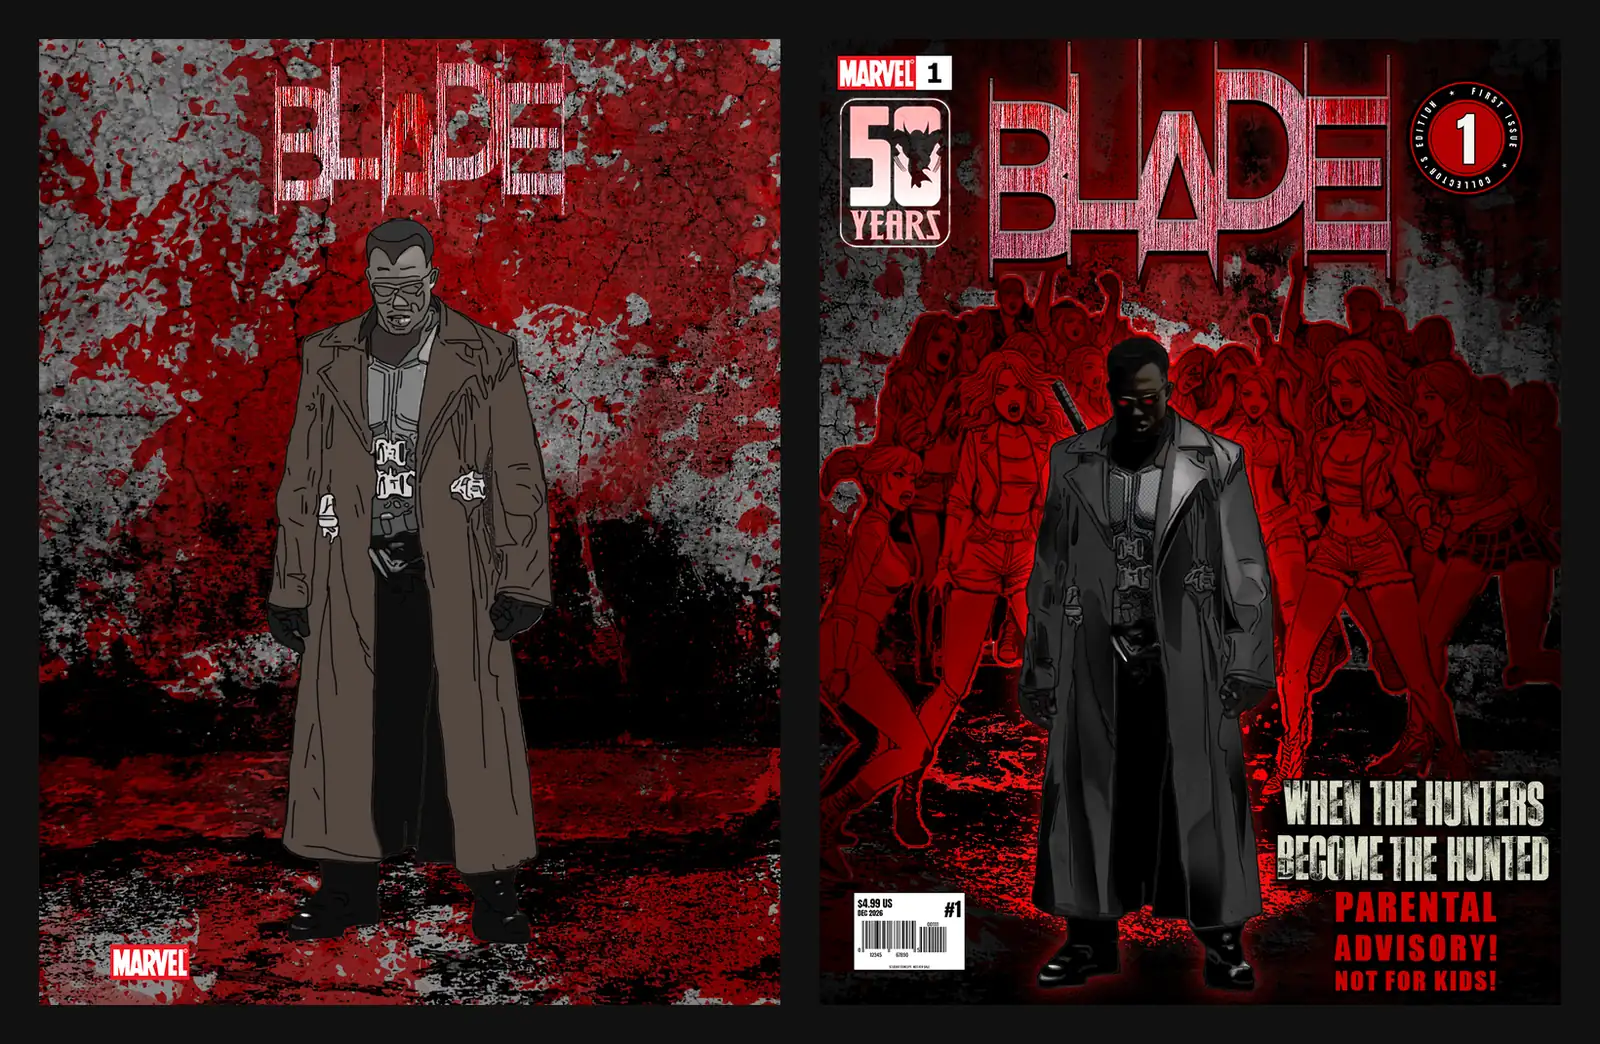
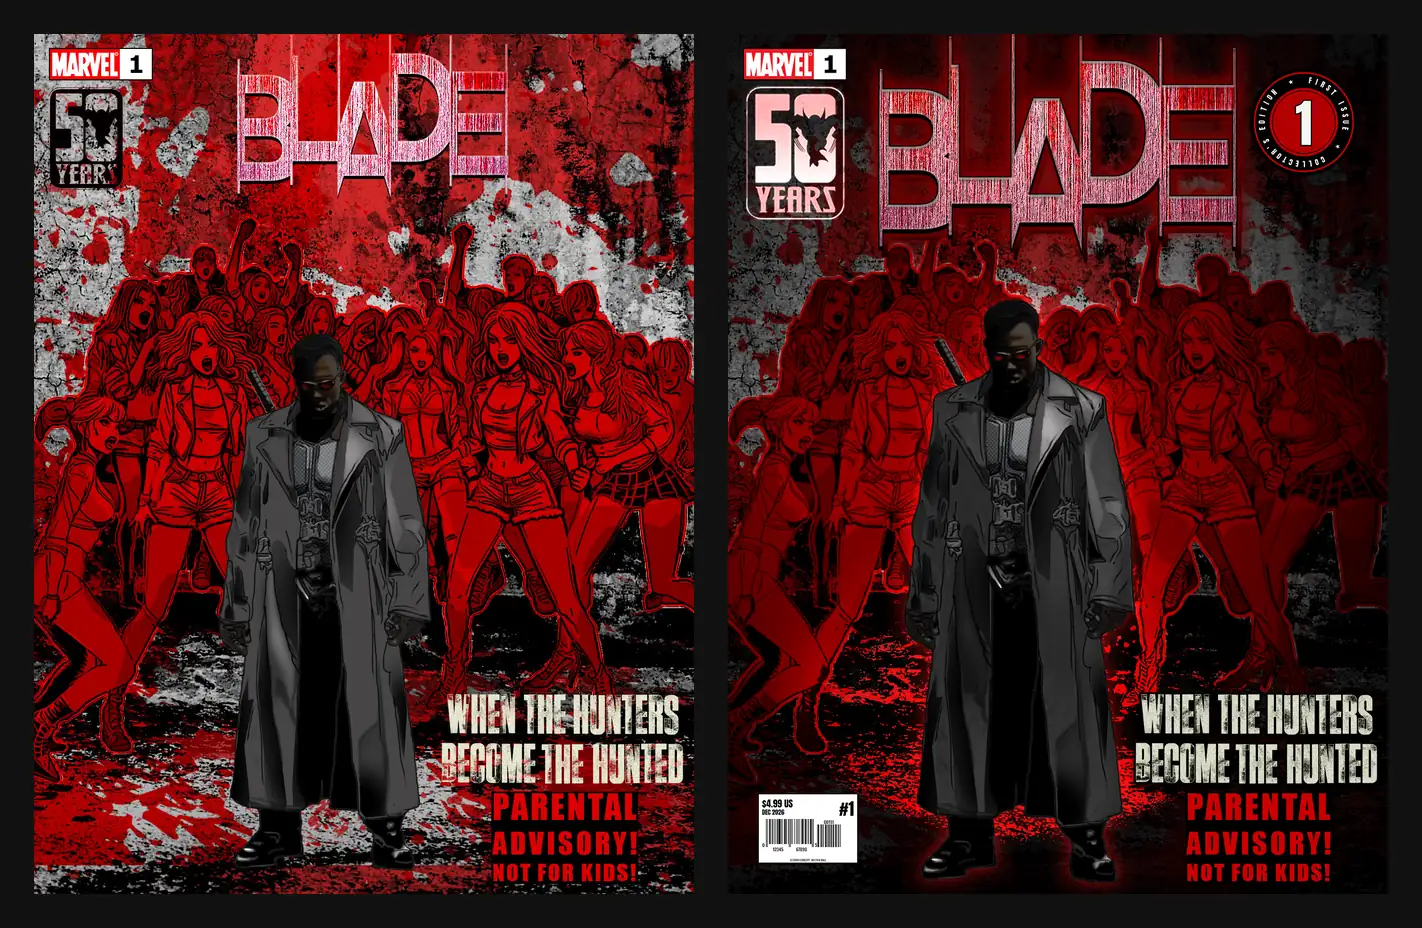
Blade gallery: new shelf photo first, turned-in 2023 cover in before/after (#24)
Claude-Session: https://claude.ai/code/session_01LsnHnQnwYzfcbdXuQquYwd

diff --git a/script.js b/script.js
@@ -193,7 +193,7 @@ const moreProjects = [
     image: "images/blade/cover-magazine-mockup.webp",
     imageAlt: "The finished Blade comic cover printed on a comic book lying at an angle on a white surface",
     details: {
-      overview: "Blade is a comic book cover I painted for Project 02 in my Electronic Imaging class at Valencia College in 2023. The assignment was to design a cover based on a movie and build it in Photoshop with custom brushes, a pattern, masks, adjustment layers and organized layer groups. I chose the blood rave that opens BLADE: Blade in his leather coat at the center, surrounded by fanged ravers dripping blood, under the caption \"When the hunters become the hunted.\" In 2026 I reworked the cover for my portfolio and placed it on a printed comic, a flat cover and a comic shop shelf.",
+      overview: "Blade is a comic book cover I painted for Project 02 in my Electronic Imaging class at Valencia College in 2023. The assignment was to design a cover based on a movie and build it in Photoshop with custom brushes, a pattern, masks, adjustment layers and organized layer groups. I chose the blood rave that opens BLADE: Blade in his leather coat at the center, surrounded by fanged ravers dripping blood, under the caption \"When the hunters become the hunted.\" In 2026 I reworked the cover for my portfolio and placed it on a printed comic, a flat cover and a comic shelf.",
       role: "Illustrator & Designer – I researched the film, wrote the project brief, sketched three rough layouts, painted the cover in Photoshop, made my own brushes and pattern, and set the title and cover type. In 2026 I reworked the cover and presented it in mockups.",
       tools: ["Adobe Photoshop", "Adobe Illustrator"],
       challenge: "The brief asked for a full cover with a title, extra type, a price and logos, painted in color and made in Photoshop, with Illustrator allowed only for outlines. I had to create and use at least 3 custom brushes and 1 pattern, use at least 2 filters, adjustment layers or layer styles, use layer masks, and name and group every layer. The file had to be 8.25 × 10.75 in with an 8 × 10.5 in trim at 150 dpi, worked in RGB and converted to CMYK at the end.",
@@ -210,13 +210,13 @@ const moreProjects = [
         { title: "Wrote the brief", text: "My brief set the concept: Blade in his leather coat at the center, the ravers around him, a gritty and semi-realistic style, no dialogue, and one caption, \"When the hunters become the hunted,\" to show the role reversal." },
         { title: "Sketched three layouts", text: "I drew three rough layouts in pencil: Blade standing among the ravers, Blade crouched with his sword inside a ring of attackers, and a close-up of Blade swinging his sword. The first one became the final cover, because his calm stance against the crowd says the most about the story." },
         { title: "Painted it in Photoshop", text: "I painted the cover on separate, named layers in groups, so every part could be changed without damaging the rest. I made my own blood splatter brushes and a pattern, used layer masks to blend the figures into the background, and finished it with adjustment layers and layer styles." },
-        { title: "Reworked it in 2026", text: "Back in Photoshop, I gave the cover the parts of a real first issue: a new BLADE masthead, glowing red eyes behind his glasses, a Marvel 50 Years corner badge, a First Issue seal, and a price and UPC box." },
-        { title: "Put it in the real world", text: "I placed the finished cover on a printed comic, on a flat cover and on a comic shop shelf with a New This Week tag, to see how it reads in a hand and from across a store." }
+        { title: "Reworked it in 2026", text: "Back in Photoshop, I gave the cover the parts of a real first issue: a new BLADE masthead, glowing red eyes behind his glasses, a redrawn 50 Years badge, a First Issue seal, and a price and UPC box." },
+        { title: "Put it in the real world", text: "I placed the finished cover on a printed comic, on a flat cover and on a shelf next to other Marvel comics, to see how it reads in a hand and next to real covers." }
       ],
       gallery: [
+        { src: "images/blade/shelf-mockup.webp", alt: "The Blade comic on a white shelf in a clear display stand next to other Marvel comics, with more comics on the shelves above and below", caption: "On a shelf next to other Marvel comics.", size: "poster" },
         { src: "images/blade/flat-cover.webp", alt: "The finished 2026 Blade cover laid flat on a dark surface: Blade in a long black leather coat stands in front of a crowd of red vampire ravers, under a pink and red BLADE masthead, with a Marvel 50 Years badge, a First Issue seal, the caption When the Hunters Become the Hunted and a UPC box", caption: "The finished cover." },
-        { src: "images/blade/shelf-mockup.webp", alt: "The Blade cover on the middle shelf of a comic shop wall, between other comics, with a red New This Week tag below it", caption: "On a comic shop shelf." },
-        { src: "images/blade/before-after.webp", alt: "Two versions of the Blade cover side by side: on the left, the 2023 version with Blade in a brown coat on a red and gray spattered wall under a pink BLADE title; on the right, the 2026 version with a black coat, a crowd of red ravers, a new masthead, badges, a caption and a UPC box", caption: "Left: the cover in 2023. Right: the 2026 rework." },
+        { src: "images/blade/before-after.webp", alt: "Two versions of the Blade cover side by side: on the left, the 2023 cover with Blade in a black coat in front of a crowd of red ravers on a spattered wall, under a pink BLADE title; on the right, the 2026 version with a new masthead, red eyes, a redrawn 50 Years badge, a First Issue seal and a UPC box", caption: "Left: the cover in 2023. Right: the 2026 rework." },
         { src: "images/blade/sketches.webp", alt: "Three pencil rough layouts for the cover: Blade standing among female vampire ravers, Blade crouched with a sword inside a ring of attackers, and a close-up of Blade swinging his sword", caption: "My three rough layouts. The first one became the final cover.", size: "small" }
       ],
       outcome: "A class assignment became a cover that looks ready for a comic shop shelf. My instructor, Michael Maguire, graded it with \"Excellent work, Fredy. Portfolio worthy!\" Painting it taught me to work in layers and masks instead of on one flat image, and reworking it later showed me how much the cover type and details make a painting read as a real comic.",
@@ -700,7 +700,7 @@ Object.assign(enToEs, {
 
 Object.assign(enToEs, {
   "Comic book cover painted in Photoshop for my Electronic Imaging class at Valencia College in 2023, inspired by the blood rave scene from the movie BLADE, and reworked in 2026 into a finished, shelf-ready first issue.": "Portada de cómic pintada en Photoshop para mi clase de Electronic Imaging en Valencia College en 2023, inspirada en la escena del blood rave de la película BLADE, y retrabajada en 2026 como un primer número terminado y listo para el estante.",
-  "Blade is a comic book cover I painted for Project 02 in my Electronic Imaging class at Valencia College in 2023. The assignment was to design a cover based on a movie and build it in Photoshop with custom brushes, a pattern, masks, adjustment layers and organized layer groups. I chose the blood rave that opens BLADE: Blade in his leather coat at the center, surrounded by fanged ravers dripping blood, under the caption \"When the hunters become the hunted.\" In 2026 I reworked the cover for my portfolio and placed it on a printed comic, a flat cover and a comic shop shelf.": "Blade es una portada de cómic que pinté para el Proyecto 02 de mi clase de Electronic Imaging en Valencia College en 2023. La tarea era diseñar una portada basada en una película y crearla en Photoshop con pinceles propios, un patrón, máscaras, capas de ajuste y grupos de capas organizados. Elegí el blood rave con el que empieza BLADE: Blade con su abrigo de cuero en el centro, rodeado de ravers con colmillos que gotean sangre, bajo la frase \"When the hunters become the hunted\" (cuando los cazadores se vuelven la presa). En 2026 retrabajé la portada para mi portafolio y la coloqué en un cómic impreso, en una portada plana y en el estante de una tienda de cómics.",
+  "Blade is a comic book cover I painted for Project 02 in my Electronic Imaging class at Valencia College in 2023. The assignment was to design a cover based on a movie and build it in Photoshop with custom brushes, a pattern, masks, adjustment layers and organized layer groups. I chose the blood rave that opens BLADE: Blade in his leather coat at the center, surrounded by fanged ravers dripping blood, under the caption \"When the hunters become the hunted.\" In 2026 I reworked the cover for my portfolio and placed it on a printed comic, a flat cover and a comic shelf.": "Blade es una portada de cómic que pinté para el Proyecto 02 de mi clase de Electronic Imaging en Valencia College en 2023. La tarea era diseñar una portada basada en una película y crearla en Photoshop con pinceles propios, un patrón, máscaras, capas de ajuste y grupos de capas organizados. Elegí el blood rave con el que empieza BLADE: Blade con su abrigo de cuero en el centro, rodeado de ravers con colmillos que gotean sangre, bajo la frase \"When the hunters become the hunted\" (cuando los cazadores se vuelven la presa). En 2026 retrabajé la portada para mi portafolio y la coloqué en un cómic impreso, en una portada plana y en un estante de cómics.",
   "Illustrator & Designer – I researched the film, wrote the project brief, sketched three rough layouts, painted the cover in Photoshop, made my own brushes and pattern, and set the title and cover type. In 2026 I reworked the cover and presented it in mockups.": "Ilustrador y diseñador: investigué la película, escribí el brief del proyecto, dibujé tres bocetos, pinté la portada en Photoshop, creé mis propios pinceles y patrón, y compuse el título y los textos de la portada. En 2026 retrabajé la portada y la presenté en mockups.",
   "The brief asked for a full cover with a title, extra type, a price and logos, painted in color and made in Photoshop, with Illustrator allowed only for outlines. I had to create and use at least 3 custom brushes and 1 pattern, use at least 2 filters, adjustment layers or layer styles, use layer masks, and name and group every layer. The file had to be 8.25 × 10.75 in with an 8 × 10.5 in trim at 150 dpi, worked in RGB and converted to CMYK at the end.": "El brief pedía una portada completa con título, textos adicionales, precio y logos, pintada a color y hecha en Photoshop, con Illustrator permitido solo para los contornos. Tenía que crear y usar al menos 3 pinceles propios y 1 patrón, usar al menos 2 filtros, capas de ajuste o estilos de capa, usar máscaras de capa, y nombrar y agrupar todas las capas. El archivo debía medir 8.25 × 10.75 in con un corte de 8 × 10.5 in a 150 dpi, trabajado en RGB y convertido a CMYK al final.",
   "I kept the scene gritty and semi-realistic, with no dialogue, so the image tells the story. Blade stands still at the center in gray and black while a crowd of red ravers closes in behind him, and a blood-spattered wall fills the background. My custom blood splatter brushes carry the blood across the whole cover, and the palette stays to red, black and gray so the title and caption read clearly.": "Mantuve la escena cruda y semirrealista, sin diálogo, para que la imagen cuente la historia. Blade está quieto en el centro, en gris y negro, mientras una multitud de ravers en rojo se le acerca por detrás y una pared salpicada de sangre llena el fondo. Mis pinceles de salpicaduras de sangre llevan la sangre por toda la portada, y la paleta se queda en rojo, negro y gris para que el título y la frase se lean con claridad.",
@@ -718,11 +718,11 @@ Object.assign(enToEs, {
   "Painted it in Photoshop": "La pinté en Photoshop",
   "I painted the cover on separate, named layers in groups, so every part could be changed without damaging the rest. I made my own blood splatter brushes and a pattern, used layer masks to blend the figures into the background, and finished it with adjustment layers and layer styles.": "Pinté la portada en capas separadas, con nombre y en grupos, para poder cambiar cada parte sin dañar el resto. Creé mis propios pinceles de salpicaduras de sangre y un patrón, usé máscaras de capa para integrar las figuras con el fondo, y la terminé con capas de ajuste y estilos de capa.",
   "Reworked it in 2026": "La retrabajé en 2026",
-  "Back in Photoshop, I gave the cover the parts of a real first issue: a new BLADE masthead, glowing red eyes behind his glasses, a Marvel 50 Years corner badge, a First Issue seal, and a price and UPC box.": "De vuelta en Photoshop, le di a la portada las partes de un primer número real: un nuevo logotipo de BLADE, ojos rojos que brillan detrás de sus lentes, una insignia de Marvel 50 Years en la esquina, un sello de First Issue y un recuadro con el precio y el código UPC.",
+  "Back in Photoshop, I gave the cover the parts of a real first issue: a new BLADE masthead, glowing red eyes behind his glasses, a redrawn 50 Years badge, a First Issue seal, and a price and UPC box.": "De vuelta en Photoshop, le di a la portada las partes de un primer número real: un nuevo logotipo de BLADE, ojos rojos que brillan detrás de sus lentes, una insignia de 50 Years redibujada, un sello de First Issue y un recuadro con el precio y el código UPC.",
   "Put it in the real world": "La llevé al mundo real",
-  "I placed the finished cover on a printed comic, on a flat cover and on a comic shop shelf with a New This Week tag, to see how it reads in a hand and from across a store.": "Coloqué la portada terminada en un cómic impreso, en una portada plana y en el estante de una tienda de cómics con una etiqueta de New This Week, para ver cómo se lee en la mano y desde el otro lado de la tienda.",
+  "I placed the finished cover on a printed comic, on a flat cover and on a shelf next to other Marvel comics, to see how it reads in a hand and next to real covers.": "Coloqué la portada terminada en un cómic impreso, en una portada plana y en un estante junto a otros cómics de Marvel, para ver cómo se lee en la mano y junto a portadas reales.",
   "The finished cover.": "La portada terminada.",
-  "On a comic shop shelf.": "En el estante de una tienda de cómics.",
+  "On a shelf next to other Marvel comics.": "En un estante junto a otros cómics de Marvel.",
   "Left: the cover in 2023. Right: the 2026 rework.": "Izquierda: la portada en 2023. Derecha: la versión retrabajada en 2026.",
   "My three rough layouts. The first one became the final cover.": "Mis tres bocetos. El primero se convirtió en la portada final.",
   "A class assignment became a cover that looks ready for a comic shop shelf. My instructor, Michael Maguire, graded it with \"Excellent work, Fredy. Portfolio worthy!\" Painting it taught me to work in layers and masks instead of on one flat image, and reworking it later showed me how much the cover type and details make a painting read as a real comic.": "Una tarea de clase se convirtió en una portada que parece lista para el estante de una tienda de cómics. Mi instructor, Michael Maguire, la calificó con \"Excellent work, Fredy. Portfolio worthy!\" (Excelente trabajo, Fredy. ¡Digna de portafolio!). Pintarla me enseñó a trabajar con capas y máscaras en lugar de una sola imagen plana, y retrabajarla después me mostró cuánto hacen los textos y detalles de la portada para que una pintura se lea como un cómic real."
